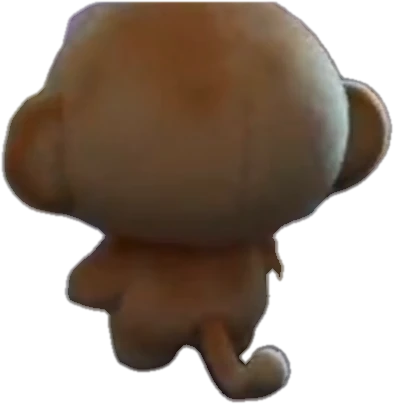
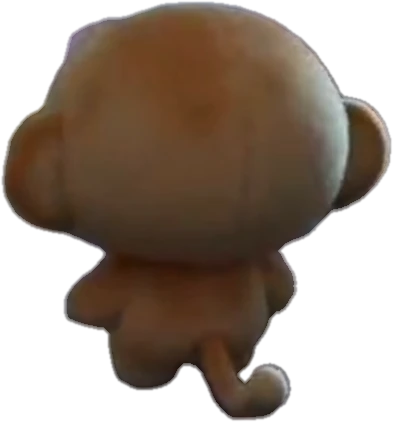
뒷모습 스프라이트 머리 윗부분이 잘린 문제 수정
Claude-Session: https://claude.ai/code/session_01EyUg4yFBkxx5cMQtjURfng

diff --git a/index.html b/index.html
@@ -80,7 +80,7 @@ function rnd() { seed = (seed * 16807) % 2147483647; return (seed - 1) / 2147483
    그림 파일 (영상에서 오려 낸 배경·캐릭터 + 같은 느낌으로 렌더링한 바깥 풍경)
    META: [너비, 높이, 기준점x, 기준점y]  — 기준점은 보통 발 밑
    ========================================================= */
-const META = {"bed_fg":[426,316,4,-627],"teddy":[170,170,81,159],"mk_front_cry":[421,390,202,396],"mk_front_neutral":[421,390,202,396],"mk_front_happy":[421,390,202,396],"mk_front_sleep":[421,390,202,396],"mk_side":[359,395,144,391],"mk_back":[394,404,217,399],"stack":[525,380,265,375],"p_pile":[209,85,104,83],"p_snowball":[99,99,49,99],"p_snowman1":[183,158,91,158],"p_snowman2":[183,256,91,256],"p_snowman3":[255,406,127,406],"p_chick":[91,89,45,86],"p_chick_happy":[91,89,45,86],"p_acorn":[43,58,21,57],"p_fire":[237,84,118,53],"p_log":[171,51,85,50],"mk_front_cry_day":[421,390,202,396],"mk_front_neutral_day":[421,390,202,396],"mk_front_happy_day":[421,390,202,396],"mk_front_sleep_day":[421,390,202,396],"mk_side_day":[359,395,144,391],"mk_back_day":[394,404,217,399],"teddy_day":[170,170,81,159],"stack_day":[525,380,265,375],"p_scarf":[177,119,88,23],"p_scarf_hang":[83,234,40,7],"p_rug":[349,91,174,45],"bed_fg_day":[426,316,4,-627]};
+const META = {"bed_fg":[426,316,4,-627],"teddy":[170,170,81,159],"mk_front_cry":[421,390,202,396],"mk_front_neutral":[421,390,202,396],"mk_front_happy":[421,390,202,396],"mk_front_sleep":[421,390,202,396],"mk_side":[359,395,144,391],"mk_back":[393,422,217,417],"stack":[525,380,265,375],"p_pile":[209,85,104,83],"p_snowball":[99,99,49,99],"p_snowman1":[183,158,91,158],"p_snowman2":[183,256,91,256],"p_snowman3":[255,406,127,406],"p_chick":[91,89,45,86],"p_chick_happy":[91,89,45,86],"p_acorn":[43,58,21,57],"p_fire":[237,84,118,53],"p_log":[171,51,85,50],"mk_front_cry_day":[421,390,202,396],"mk_front_neutral_day":[421,390,202,396],"mk_front_happy_day":[421,390,202,396],"mk_front_sleep_day":[421,390,202,396],"mk_side_day":[359,395,144,391],"mk_back_day":[393,422,217,417],"teddy_day":[170,170,81,159],"stack_day":[525,380,265,375],"p_scarf":[177,119,88,23],"p_scarf_hang":[83,234,40,7],"p_rug":[349,91,174,45],"bed_fg_day":[426,316,4,-627]};
 const FILES = ['room_night.jpg', 'room_day.jpg', 'closet_closed.jpg', 'closet_dark.jpg', 'closet_lit.jpg', 'closet_sleep.jpg', 'closet_morning.jpg',
   'out_far_day.webp', 'out_far_night.webp', 'out_mid_day.webp', 'out_mid_night.webp', 'out_main_day.webp', 'out_main_night.webp']
   .concat(Object.keys(META).map(k => k + '.webp'));
